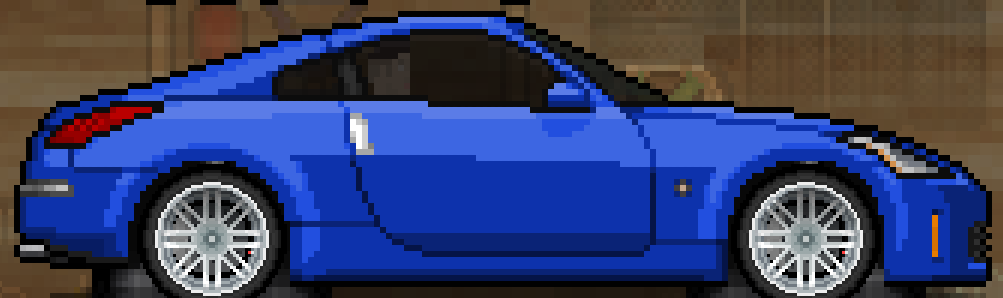
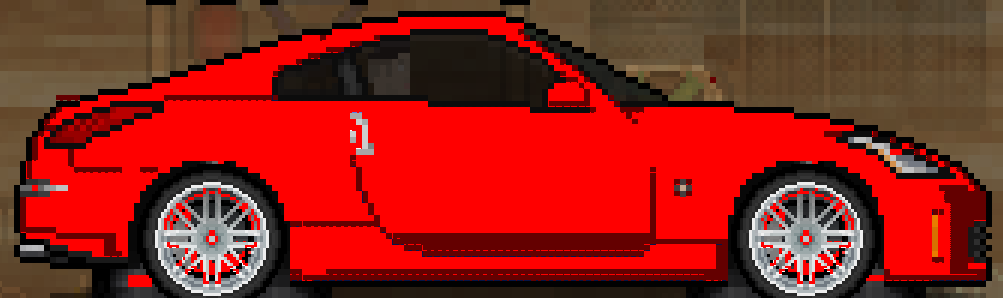
car_wrapper now uses the new file system General bug fixes

diff --git a/car_wrapper.py b/car_wrapper.py
@@ -14,8 +14,8 @@ def start():
     getCar()
 
 def stockPicGenerator(car_name, car_model):
-    car_file_name = car_name + ".png"
-    car_file_model = car_model + ".png"
+    car_file_name = "/home/zsteck/Desktop/car_builder/car_builder/user_files/" + car_name.lower() + "/" + car_name + ".png"
+    car_file_model = "/home/zsteck/Desktop/car_builder/car_builder/stock_pictures/" + car_model + ".png"
 
     try:
         car_image = Image.open(car_file_name)
@@ -80,6 +80,8 @@ def getCar():
     car_model = input("What model car do you want to work on? ")
     car_name = input("What's the name of the car you want to work on? ")
 
+    car_name_path = "/home/zsteck/Desktop/car_builder/car_builder/user_files/" + car_name.lower() + "/" + car_name + ".png"
+
     colors = ["red", "yellow", "blue", "green", "pink", "black", "white", "turquoise", "brown", "orange", "purple", "dark green"]
 
     #car_file = open(car_name, "r")
@@ -136,7 +138,7 @@ def getCar():
         
     
 def paintCar(car_name, color):
-    car_file_name = car_name + ".png"
+    car_file_name = "/home/zsteck/Desktop/car_builder/car_builder/user_files/" + car_name.lower() + "/" + car_name + ".png"
 
     car_image = Image.open(car_file_name)
     rgb_car_image = car_image.convert("RGB")
@@ -195,9 +197,9 @@ def paintCar(car_name, color):
                 elif color == "dark green":
                     pixeldata[x, y] = (0, 99, 0)
 
-    file_path = "/home/zsteck/Desktop/car_builder/finished_cars/"
+    file_path = "/home/zsteck/Desktop/car_builder/car_builder/user_files/" + car_name.lower() + "/"
 
-    car_new_name = file_path + color + "_" + car_file_name
+    car_new_name = file_path + car_name + ".png"
         
     #car_image.show()
     car_image.save(car_new_name)

diff --git a/car_builder.py b/car_builder.py
@@ -85,7 +85,7 @@ def createCar(car_model, car_name, p_mods, v_mods):
         print("", end="")
 
 def createPic(car_model, car_name):
-    model_image = "/home/zsteck/Desktop/car_builder/car_builder/user_files/" + car_model + ".png"
+    model_image = "/home/zsteck/Desktop/car_builder/car_builder/stock_files/" + car_model + ".png"
     name_image = "/home/zsteck/Desktop/car_builder/car_builder/user_files/" + car_name.lower() + "/" + car_name + ".png"
 
     car_image_file = Image.open(model_image)
